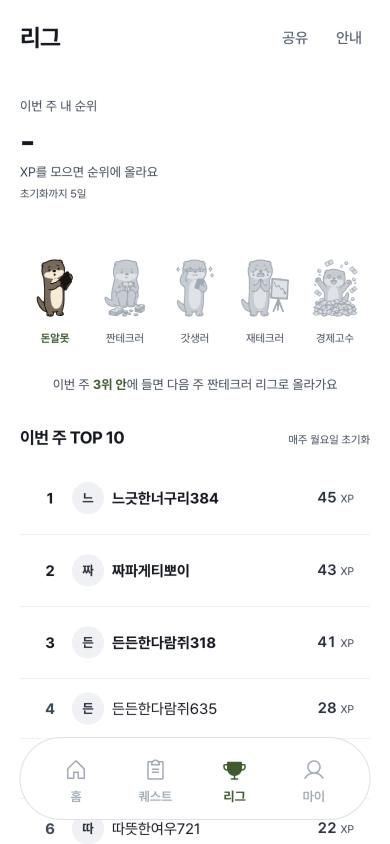
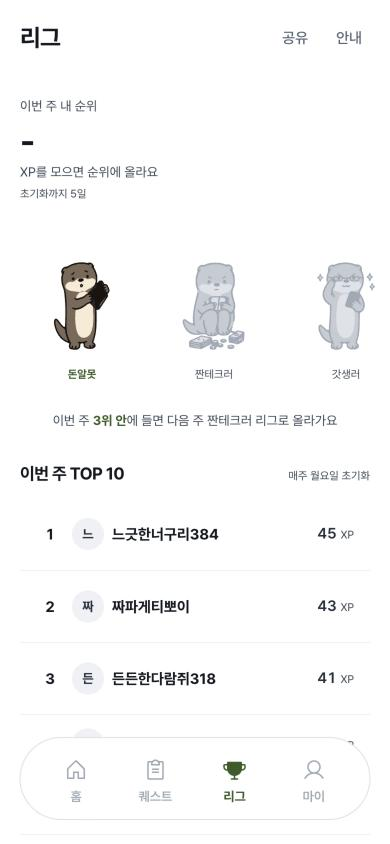
리그 등급 그림을 104px로 키우고 가로로 넘기는 방식으로(다음 칸이 살짝 보이게, 처음엔 현재 등급을 가운데로)

diff --git a/src/index.css b/src/index.css
@@ -1128,12 +1128,11 @@ button.course-home-rail-card:active { background: var(--color-surface); }
 .league-my-rank-value { margin-top: var(--space-1); color: var(--color-neutral-strong); font-size: var(--font-size-title-2); font-weight: var(--font-weight-bold); font-variant-numeric: tabular-nums; }
 
 /* 리그: 등급 단계 로드맵 */
-.league-tier-road { position: relative; display: grid; grid-template-columns: repeat(5, minmax(0, 1fr)); margin: 0; padding: var(--space-5) var(--space-2) var(--space-4); border-radius: var(--shape-card); background: var(--color-card); box-shadow: var(--shadow-card); list-style: none; }
-.league-tier-road::before, .league-tier-road::after { content: none; position: absolute; top: calc(var(--space-5) + 30px); left: 10%; height: 8px; margin-top: calc(var(--space-1) * -1); border-radius: var(--shape-full); }
-.league-tier-road::before { right: 10%; background: var(--color-surface); }
-.league-tier-road::after { width: calc(80% * var(--road-progress)); background: var(--color-progress); }
-.league-tier-step { position: relative; z-index: 1; display: flex; min-width: 0; flex-direction: column; align-items: center; gap: var(--space-1); }
-.league-tier-node { display: flex; width: 68px; height: 68px; align-items: center; justify-content: center; }
+/* 등급 길: 큰 등급 그림을 가로로 넘겨 본다. 현재 등급은 처음에 가운데로 스크롤한다(LeagueScreen) */
+.league-tier-road { position: relative; display: flex; gap: var(--space-2); margin: 0; padding: var(--space-5) var(--space-2) var(--space-4); overflow-x: auto; border-radius: var(--shape-card); background: var(--color-card); box-shadow: var(--shadow-card); list-style: none; scroll-snap-type: x mandatory; scroll-padding-inline: var(--space-5); scrollbar-width: none; }
+.league-tier-road::-webkit-scrollbar { display: none; }
+.league-tier-step { position: relative; z-index: 1; display: flex; width: 124px; flex-shrink: 0; flex-direction: column; align-items: center; gap: var(--space-1); scroll-snap-align: center; }
+.league-tier-node { display: flex; width: 104px; height: 104px; align-items: center; justify-content: center; }
 .league-tier-step[data-state='done'] .league-tier-node { color: var(--color-ink-2); }
 .league-tier-step[data-state='current'] .league-tier-node { color: var(--color-accent-foreground); }
 .league-tier-step[data-state='future'] .league-tier-node .stage-glyph { opacity: 1; filter: none; }

diff --git a/src/pages/LeagueScreen.tsx b/src/pages/LeagueScreen.tsx
@@ -1,4 +1,4 @@
-import { useEffect, useState } from 'react';
+import { useEffect, useRef, useState } from 'react';
 import { BottomSheet, TextButton, Spacing } from '@toss/tds-mobile';
 import { GROWTH_STAGES, getGrowthStage, LEAGUE_PROMOTE_TOP } from '../constants';
 import { useAppContext } from '../context/AppContext';
@@ -48,6 +48,12 @@ const LeagueScreen = () => {
 
   const stage = getGrowthStage(leagueStage ?? 1);
   const nextStage = GROWTH_STAGES.find(s => s.id === stage.id + 1);
+  const roadRef = useRef<HTMLOListElement>(null);
+  useEffect(() => {
+    const road = roadRef.current;
+    const current = road?.querySelector<HTMLElement>('[aria-current="step"]');
+    if (road && current) road.scrollLeft = current.offsetLeft - (road.clientWidth - current.offsetWidth) / 2;
+  }, [stage.id]);
 
   return (
     <div className="league-screen flex flex-col h-full pb-nav overflow-y-auto [&::-webkit-scrollbar]:hidden">
@@ -74,13 +80,13 @@ const LeagueScreen = () => {
           <p className="mt-1! text-2xs text-[var(--color-ink-3)]">초기화까지 {daysUntilReset()}일</p>
         </section>
 
-        {/* 티어 로드맵: 테두리·선 없이 등급 그림만 나란히, 현재 등급은 이름 색·굵기로 강조한다 */}
-        <ol className="league-tier-road anim-fade-up" aria-label="등급 단계" style={{ '--i': 1, '--road-progress': (stage.id - 1) / (GROWTH_STAGES.length - 1) } as React.CSSProperties}>
+        {/* 티어 로드맵: 테두리·선 없이 큰 등급 그림을 가로로 넘긴다. 현재 등급은 이름 색·굵기로 강조하고 처음에 가운데로 둔다 */}
+        <ol ref={roadRef} className="league-tier-road anim-fade-up" aria-label="등급 단계" style={{ '--i': 1 } as React.CSSProperties}>
           {GROWTH_STAGES.map(s => {
             const state = s.id < stage.id ? 'done' : s.id === stage.id ? 'current' : 'future';
             return (
               <li key={s.id} className="league-tier-step" data-state={state} aria-current={state === 'current' ? 'step' : undefined}>
-                <span className="league-tier-node"><StageGlyph id={s.id} size={68} locked={state === 'future'} /></span>
+                <span className="league-tier-node"><StageGlyph id={s.id} size={104} locked={state === 'future'} /></span>
                 <span className="league-tier-name">{s.name}</span>
               </li>
             );

diff --git a/DESIGN.md b/DESIGN.md
@@ -235,7 +235,7 @@
 ### 리그 (`/league`)
 
 - 이번 주 내 순위: 34px 순위, `N명 중 · XP`, 초기화까지 남은 일.
-- 등급 단계: 테두리·트랙 없이 68px 등급 그림 다섯 개. 현재 등급은 이름 색·굵기로 강조, 아직 못 간 등급은 회색 잠김본. 아래 한 줄로 승급 조건("이번 주 3위 안에 들면 다음 주 ○○ 리그로 올라가요", 지금 3위 안이면 "지금 순위를 지키면…").
+- 등급 단계: 테두리·트랙 없이 104px 등급 그림 다섯 개를 가로로 넘긴다(칸 124px, 다음 칸이 살짝 보이게, 처음엔 현재 등급을 가운데로). 현재 등급은 이름 색·굵기로 강조, 아직 못 간 등급은 회색 잠김본. 아래 한 줄로 승급 조건("이번 주 3위 안에 들면 다음 주 ○○ 리그로 올라가요", 지금 3위 안이면 "지금 순위를 지키면…").
 - TOP 10: 순위 목록 하나만 둔다(시상대는 같은 1~3위를 반복해서 뺐다). 1~3위는 보라 굵은 숫자, 내 행은 옅은 보라 면.
 
 ### 마이 (`/my`)
